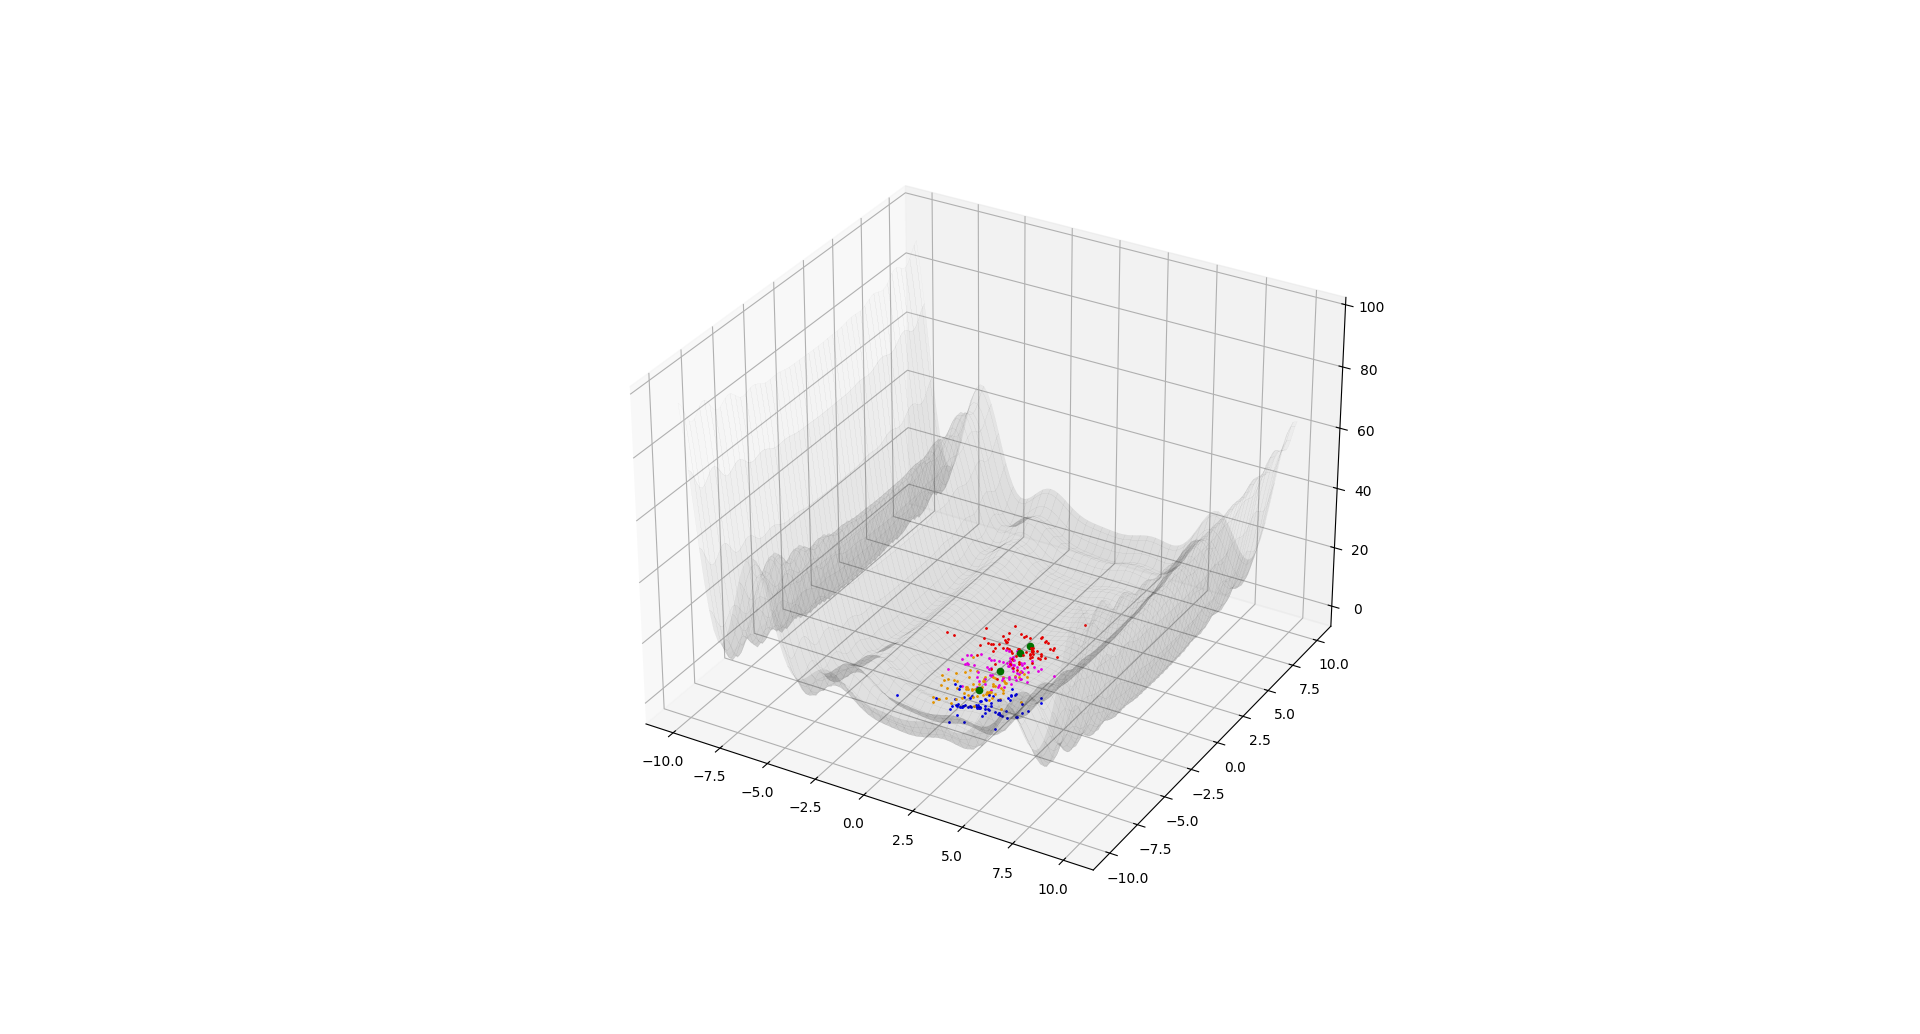
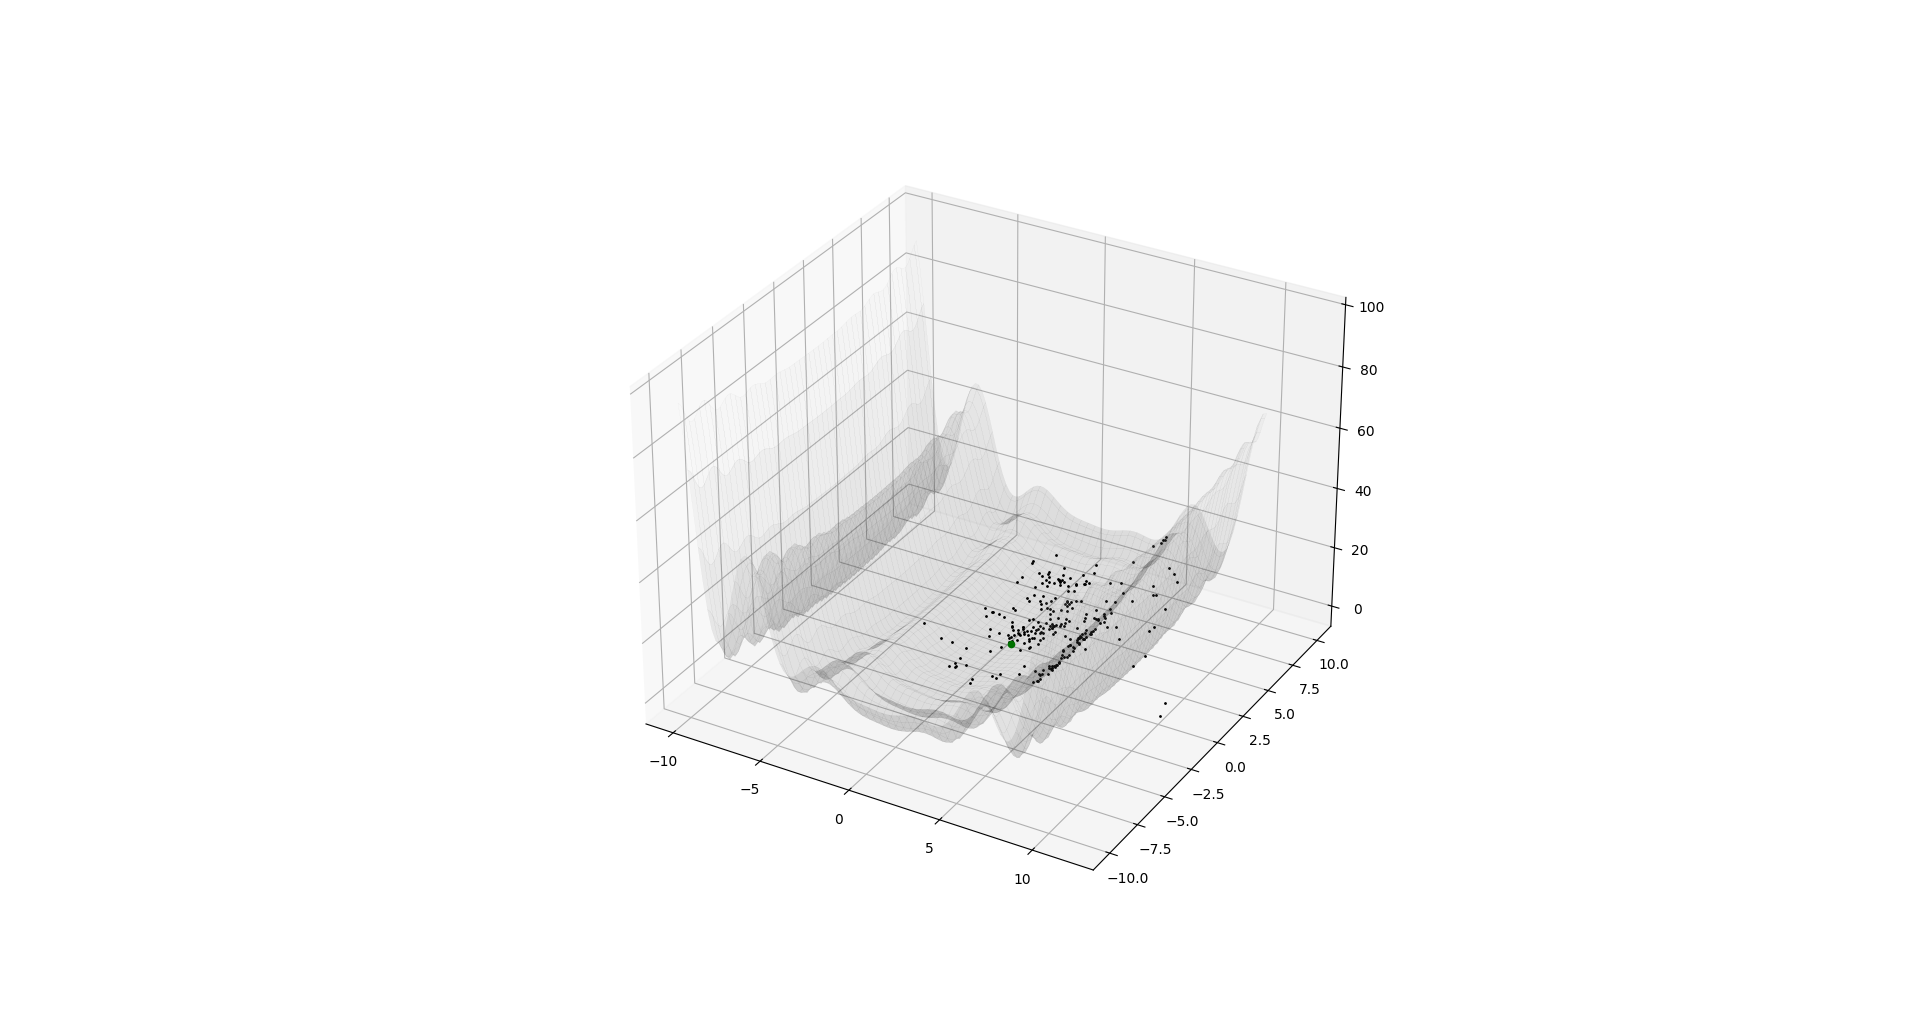
simulated annealing

Changed region(s): [[0.4062, 0.4642, 0.6562, 0.7427], [0.5312, 0.8356, 0.5625, 0.8665], [0.5, 0.4952, 0.5312, 0.5261]]

diff --git a/src/algorithms/SimAnnealing.py b/src/algorithms/SimAnnealing.py
@@ -1,0 +1,74 @@
+from src.Functions import Function
+from src.render.Render import *
+from src.utils.Result import *
+
+
+class SimAnnealing:
+
+    # simulated annealing algorithm class
+    def __init__(self, functions: Function, initial_temp: float = 100, min_temp: float = 0.5, alpha: float = 0.98):
+        """
+        :param functions: Function object containing all functions to optimize
+        :param initial_temp: Initial temperature for the annealing process
+        :param min_temp: Minimum temperature for the annealing process
+        :param alpha: Cooling rate
+        """
+        self.functions: Function = functions
+        self.initial_temp: float = initial_temp
+        self.min_temp: float = min_temp
+        self.alpha: float = alpha
+        self.result: dict[callable, Result] = {}
+
+    def run_function(self, function: callable) -> Result:
+        T = self.initial_temp
+        location: ndarray = np.random.uniform(low=function.range[0], high=function.range[1], size=len(function.range))
+        best_value = function(location)
+        radius_in_percent_for_scale = (function.range[1] - function.range[0]) * 4 / 100
+        result = Result()
+
+        iteration = Iteration()
+        # while T > T_min:
+        while T > self.min_temp:
+
+            # x_1 = generate neighbour of x in normal distribution
+            new_location = np.random.normal(location, radius_in_percent_for_scale, size=len(function.range))
+            # Evaluate x_1
+            new_value = function(new_location)
+
+            # if f(x_1) < f(x):
+            if new_value < best_value:
+                # x = x_1
+                location = new_location
+                best_value = new_value
+
+            else:
+                # r = random number in uniform distribution
+                r = np.random.uniform()
+                # if r < e^(-(f(x_1)-f(x))/T ):
+                if r < np.exp((best_value - new_value) / T):
+                    location = new_location
+
+            iteration.add_position(Position(new_value, new_location))
+            T *= self.alpha
+
+        result.add_iteration(iteration)
+        self.result[function] = result
+        return self.result[function]
+
+    def run_all(self) -> dict[callable, Result]:
+        for function in self.functions.get_all():
+            self.run_function(function)
+        return self.result
+
+    def render(self, function: callable):
+        render = Render()
+        if function in self.result:
+            render.render(self.result[function], function)
+        else:
+            self.run_function(function)
+            render.render(self.result[function], function)
+
+    def render_all(self):
+        render = Render()
+        for function in self.functions.get_all():
+            render.render(self.result[function], function)

diff --git a/src/render/Render.py b/src/render/Render.py
@@ -10,12 +10,14 @@ from src.utils.Utils import singleton
 @singleton
 class Render:
 
-    def __init__(self, resolution: int = 100):
+    def __init__(self, resolution: int = 100, wait: float = 5, wait_iteration: float = 1):
         self.resolution = resolution
         plt.switch_backend('tkagg')
         fig = plt.figure()
         self.ax = fig.add_subplot(111, projection='3d')
         self.colors = ['red', 'blue', 'yellow', 'purple', 'orange', 'black', 'pink', 'brown', 'cyan', 'magenta']
+        self.wait = wait
+        self.wait_iteration = wait_iteration
 
     def render_graph(self, function: callable, clear: bool = False, time: int = 10):
         x = np.linspace(function.range[0], function.range[1], self.resolution)
@@ -49,7 +51,7 @@ class Render:
             self.ax.scatter(iteration.best.position[0], iteration.best.position[1], iteration.best.value,
                             color='green'))
 
-        plt.pause(1)
+        plt.pause(self.wait_iteration)
 
     def render(self, result: Result, function: callable):
         if function is not None:
@@ -60,5 +62,5 @@ class Render:
             self.render_iteration(iteration)
 
         plt.savefig(f"../results/{function.__name__}.png")
-        plt.pause(5)
+        plt.pause(self.wait)
         self.ax.clear()

diff --git a/src/main.py b/src/main.py
@@ -1,9 +1,11 @@
 import src.algorithms as alg
 from src.Functions import Function
+from src.render.Render import Render
 
 if __name__ == '__main__':
     # algorithm = alg.BlindSearch(Function())
-    algorithm = alg.HillClimb(Function())
+    Render(100, 0.0001, 0.0001)
+    algorithm = alg.SimAnnealing(Function())
     algorithm.run_all()
     algorithm.render_all()
     # algorithm.render(Function().ackley)

diff --git a/src/algorithms/__init__.py b/src/algorithms/__init__.py
@@ -2,5 +2,6 @@ print(f"src/algorithms/__init__.py")
 
 from src.algorithms.BlindSearch import BlindSearch
 from src.algorithms.HillClimb import HillClimb
+from src.algorithms.SimAnnealing import SimAnnealing
 
-__all__ = ['BlindSearch', 'HillClimb']
+__all__ = ['BlindSearch', 'HillClimb', 'SimAnnealing']

diff --git a/src/Functions.py b/src/Functions.py
@@ -102,7 +102,7 @@ class Function:
         d = len(xx)
         return 10 * d + np.sum(xx ** 2 - 10 * np.cos(2 * math.pi * xx))
 
-    @set_range((-600, 600))
+    @set_range((-50, 50))
     def griewank(self, xx: np.ndarray) -> float:
         """
         Description:

diff --git a/readme.md b/readme.md
@@ -2,8 +2,8 @@
 
 [![Python version](https://img.shields.io/badge/python-3.12-blue.svg)](https://python.org)
 [![Python version](https://img.shields.io/github/commit-activity/m/rcMarty/BioFusion)](https://github.com/rcMarty/BioFusion/graphs/commit-activity)
-[![Python version](https://img.shields.io/badge/now_results_of-Hill_climb-purple.svg)]()
-[![Python version](https://img.shields.io/badge/now_working_on-Simulated_Annealing-orange.svg)]()
+[![Python version](https://img.shields.io/badge/now_results_of-Simulated_Annealing-purple.svg)]()
+[![Python version](https://img.shields.io/badge/now_working_on-TSP-orange.svg)]()
 
 Welcome to the Biologically Inspired Algorithms course! In this course, you’ll explore optimization techniques inspired
 by nature, implemented in Python.
@@ -14,7 +14,7 @@ by nature, implemented in Python.
 
 - [x] Blind Search
 - [x] Hill Climbing
-- [ ] Simulated Annealing
+- [x] Simulated Annealing
 - [ ] Genetic Algorithms (TSP)
 - [ ] Differential Evolution
 - [ ] Particle Swarm Optimization
